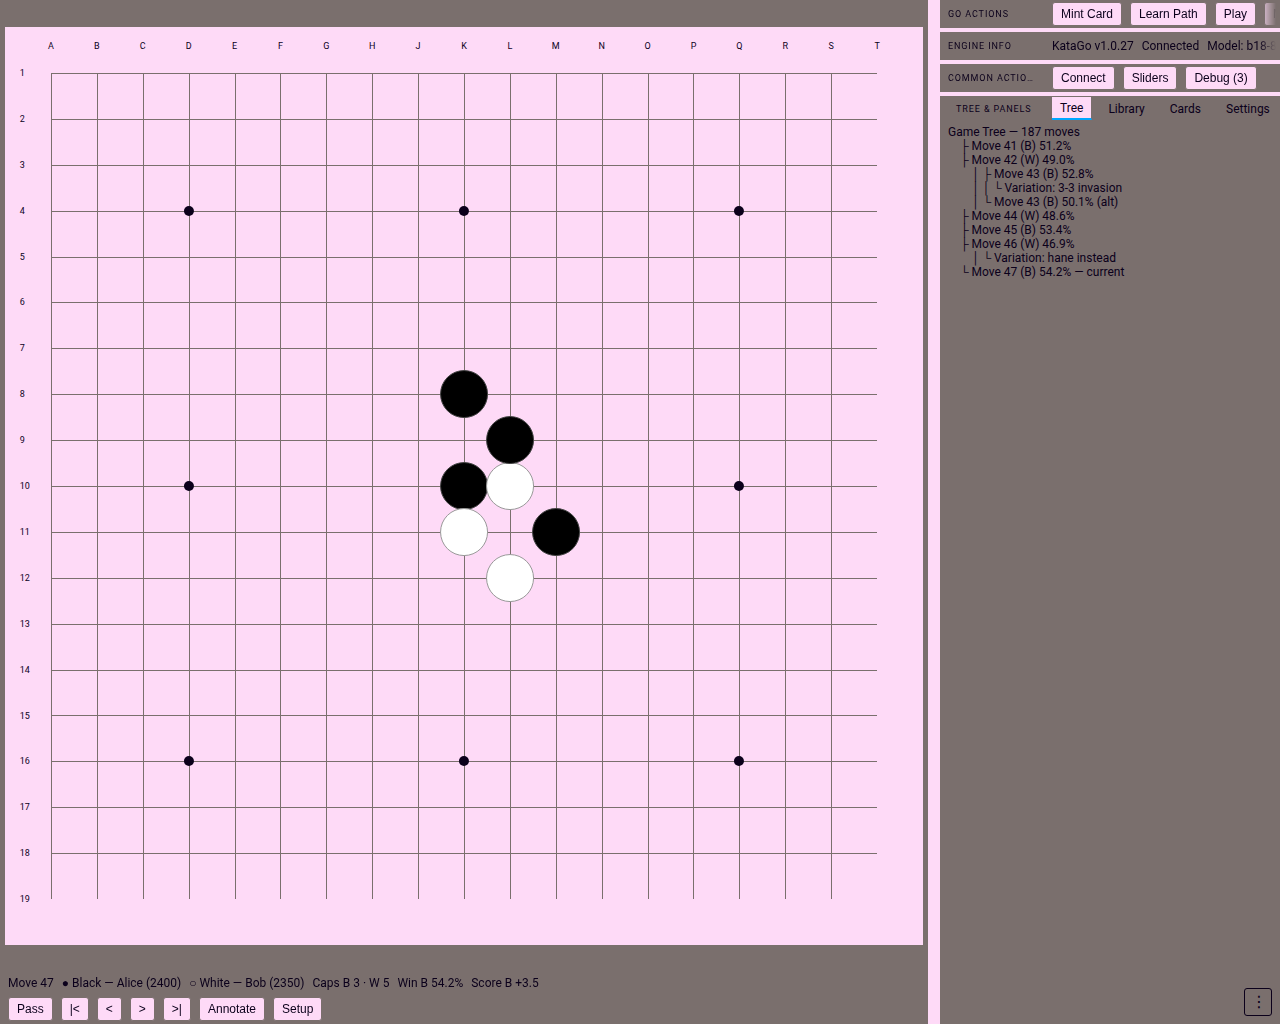
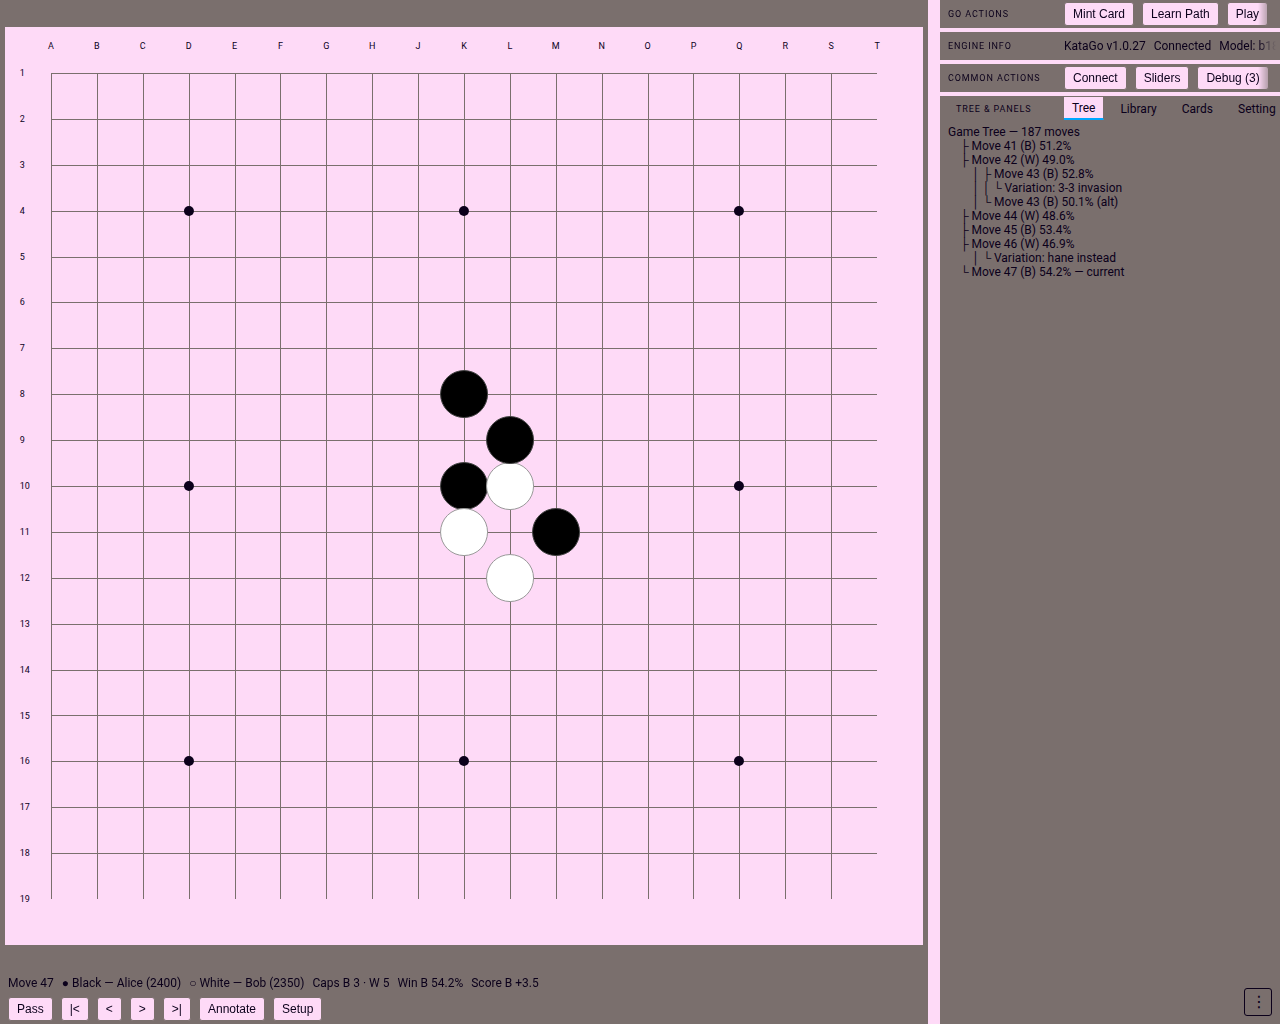
style(research): caption gutter 92px -> 104px -- clears the ellipsized COMMON ACTIONS caption (opus pass-3 residual; no-ellipsized-names standing rule); regenerated mockups+shots, power set 48/48 clean
Claude-Session: https://claude.ai/code/session_01KRTeQwVad5cR1kBwquGjsL

Changed region(s): [[0.8125, 0.0, 1.0, 0.125]]

diff --git a/research/lyt/mockups/landscape.html b/research/lyt/mockups/landscape.html
@@ -81,7 +81,11 @@
   --z-popover: 10;
   --z-affordance: 50;
   --z-overlay: 99999;
-  --caption-gutter: 92px;  /* X2 fix: one shared caption-column width, see .row-caption/.lyt-tab-caption */
+  --caption-gutter: 104px; /* X2 fix: one shared caption-column width, see .row-caption/.lyt-tab-caption.
+                              104px not 92px: the 92px floor clipped "COMMON ACTIONS" (97px) to an
+                              ellipsis in the DEFAULT state (opus pass-3 residual) — standing law
+                              forbids ellipsized readable names; the shared variable keeps all four
+                              content-starts locked by construction. */
 }
 html, body {
   margin: 0; padding: 0; height: 100%;

diff --git a/research/lyt/mockups/portrait.html b/research/lyt/mockups/portrait.html
@@ -81,7 +81,11 @@
   --z-popover: 10;
   --z-affordance: 50;
   --z-overlay: 99999;
-  --caption-gutter: 92px;  /* X2 fix: one shared caption-column width, see .row-caption/.lyt-tab-caption */
+  --caption-gutter: 104px; /* X2 fix: one shared caption-column width, see .row-caption/.lyt-tab-caption.
+                              104px not 92px: the 92px floor clipped "COMMON ACTIONS" (97px) to an
+                              ellipsis in the DEFAULT state (opus pass-3 residual) — standing law
+                              forbids ellipsized readable names; the shared variable keeps all four
+                              content-starts locked by construction. */
 }
 html, body {
   margin: 0; padding: 0; height: 100%;

diff --git a/research/lyt/emit_mockup.py b/research/lyt/emit_mockup.py
@@ -1016,7 +1016,11 @@ _STYLE = """
   --z-popover: 10;
   --z-affordance: 50;
   --z-overlay: 99999;
-  --caption-gutter: 92px;  /* X2 fix: one shared caption-column width, see .row-caption/.lyt-tab-caption */
+  --caption-gutter: 104px; /* X2 fix: one shared caption-column width, see .row-caption/.lyt-tab-caption.
+                              104px not 92px: the 92px floor clipped "COMMON ACTIONS" (97px) to an
+                              ellipsis in the DEFAULT state (opus pass-3 residual) — standing law
+                              forbids ellipsized readable names; the shared variable keeps all four
+                              content-starts locked by construction. */
 }
 html, body {
   margin: 0; padding: 0; height: 100%;
